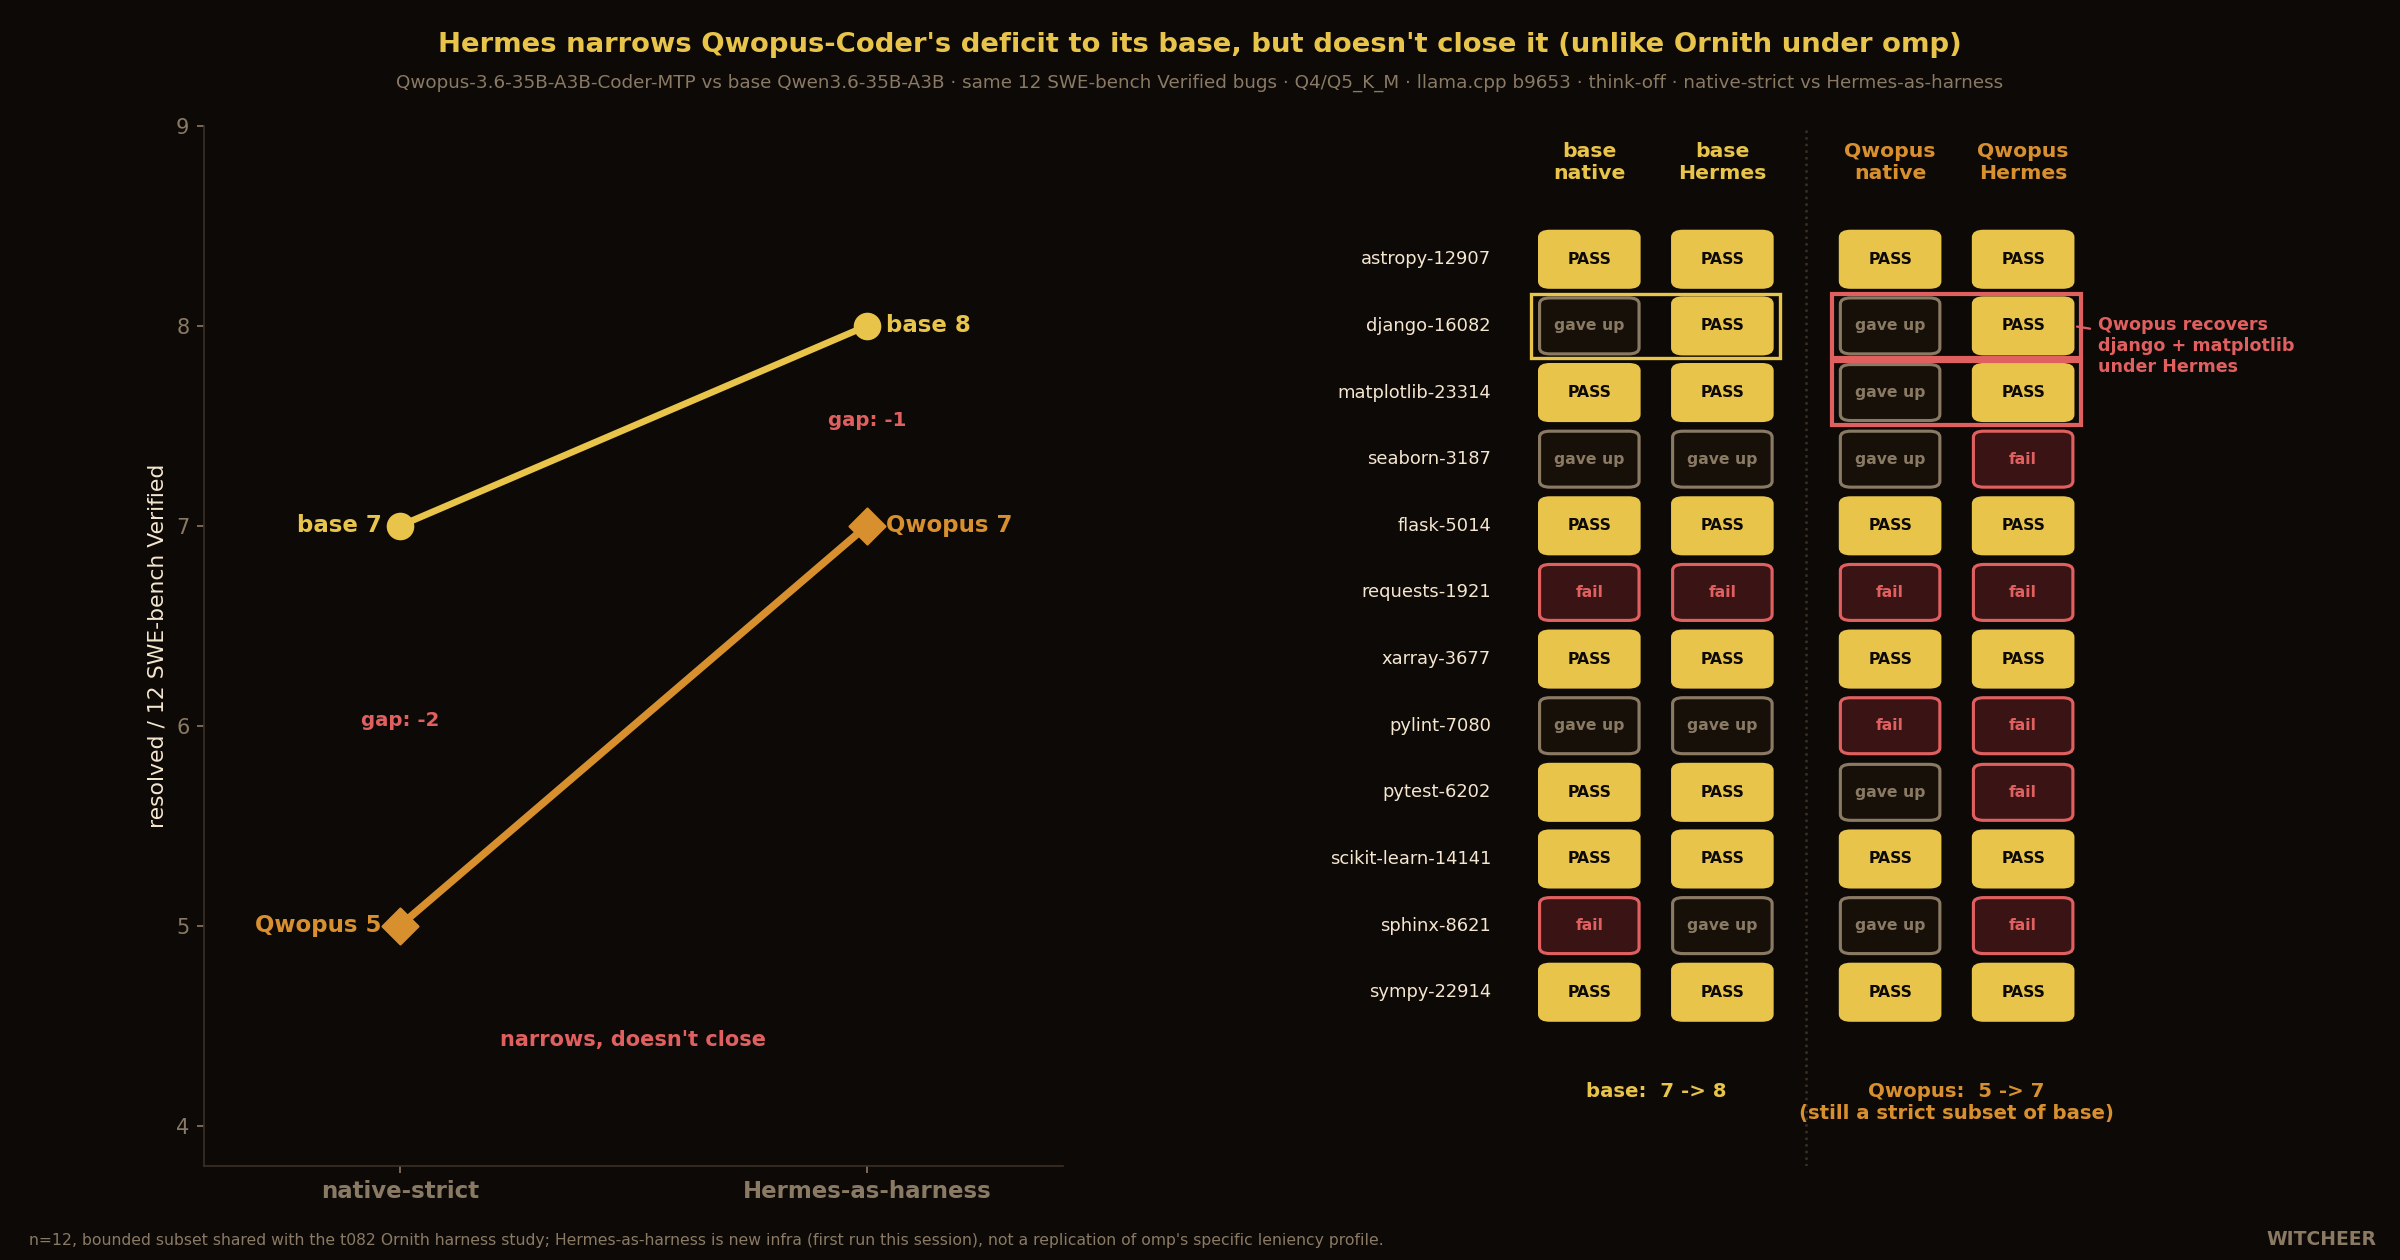
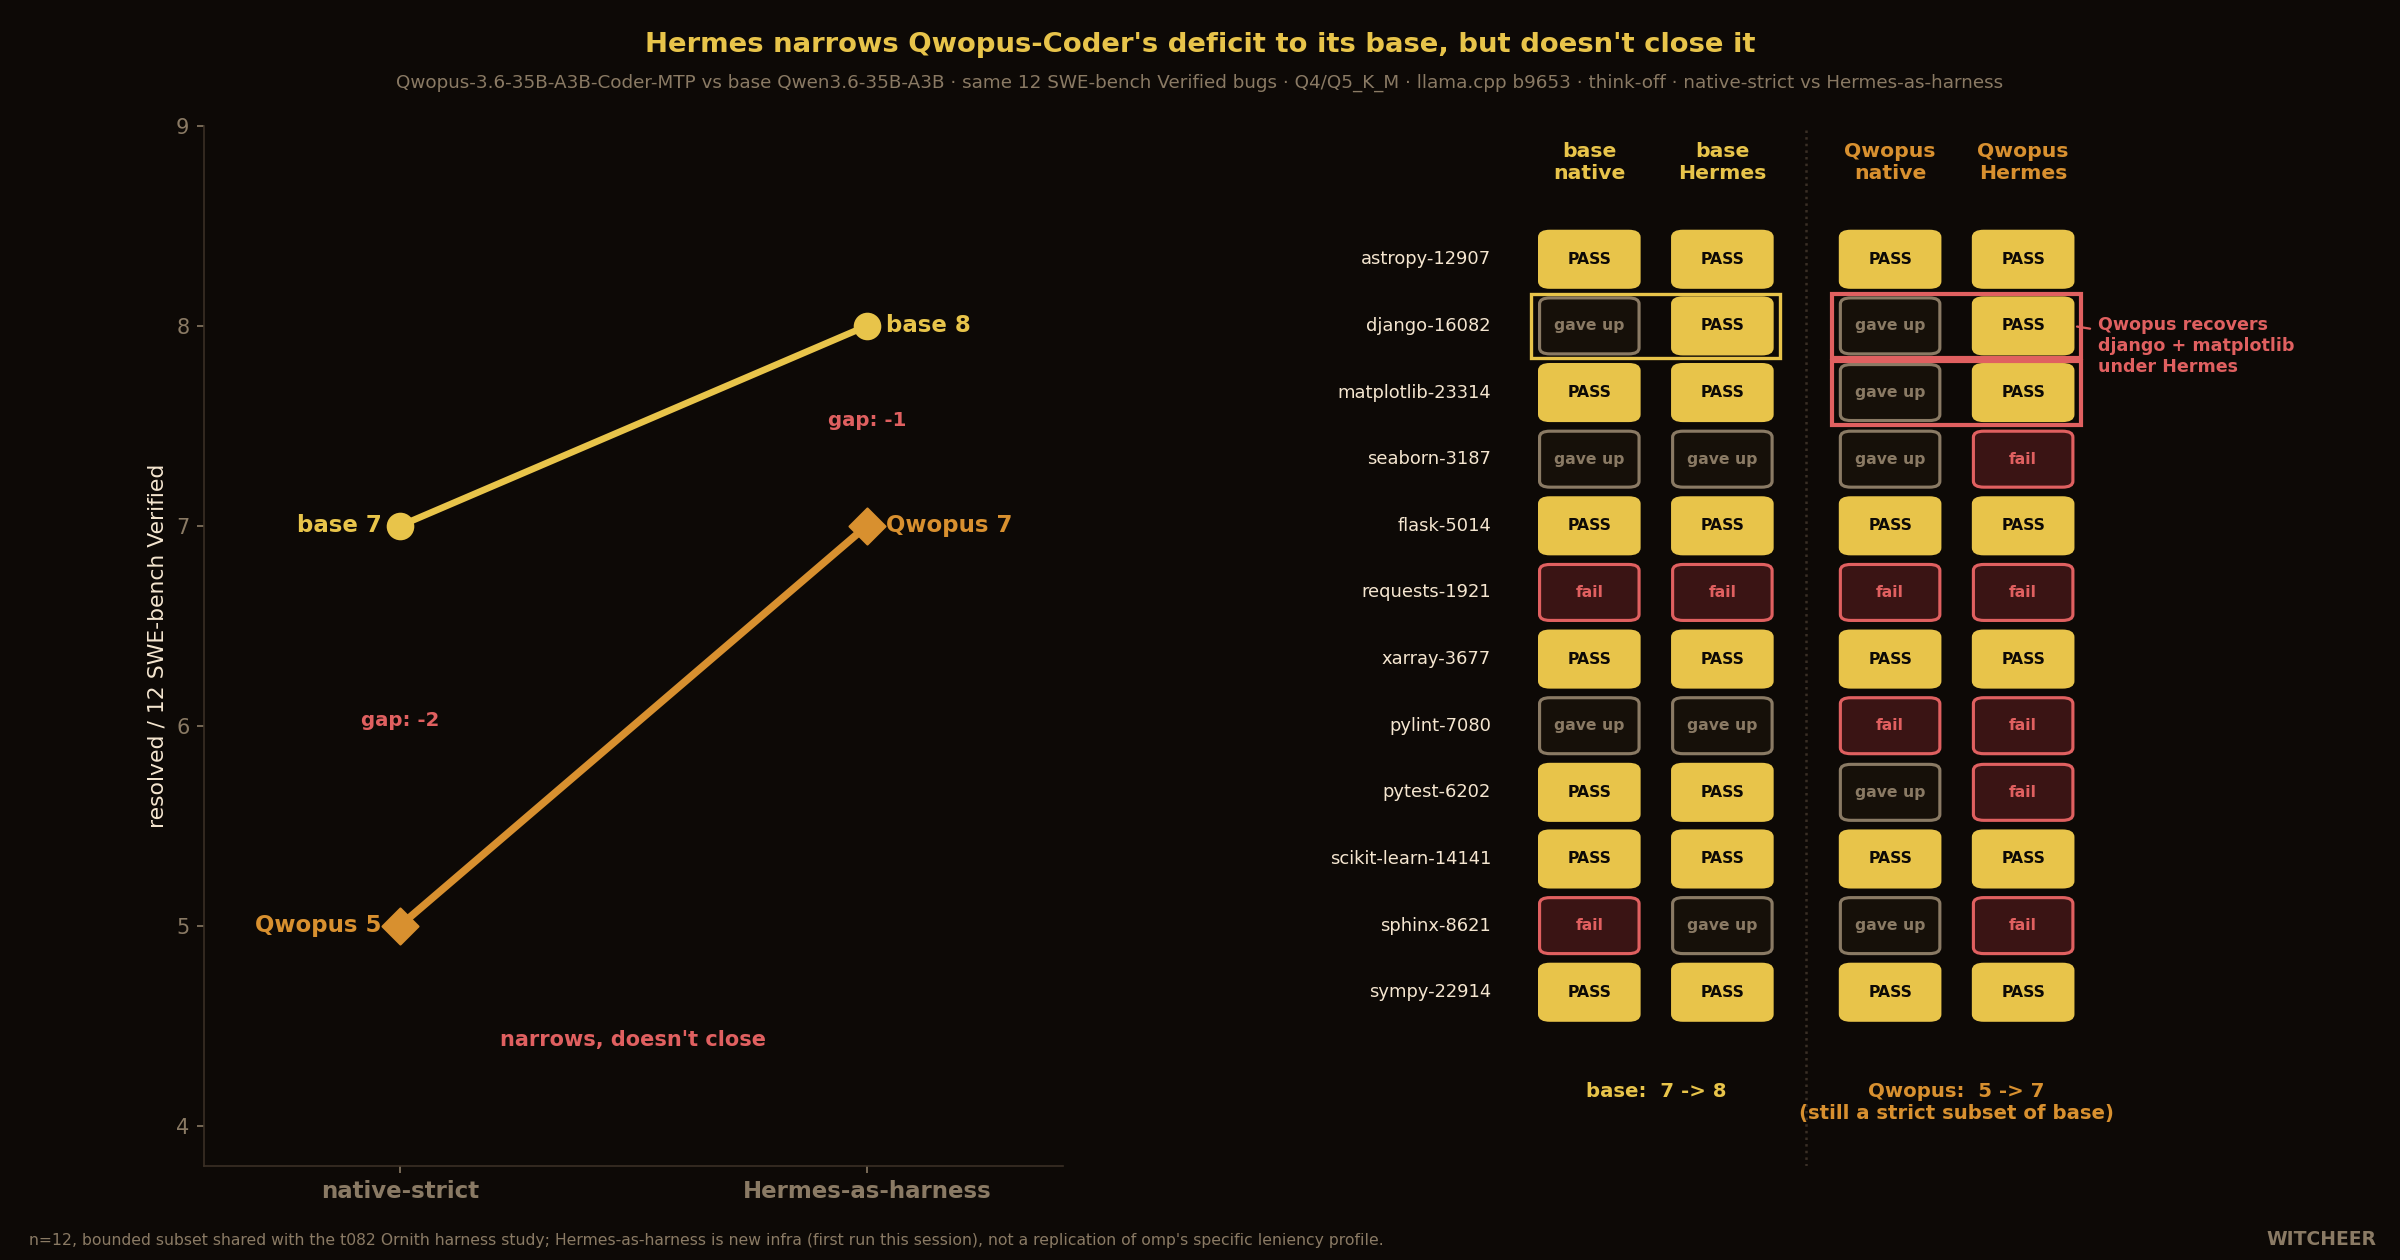
t083: drop redundant parenthetical from chart title
The "(unlike Ornith under omp)" aside duplicated context already in the
report body; the chart title reads cleaner without it.

Changed region(s): [[0.1875, 0.031, 0.8125, 0.0619]]

diff --git a/scripts/chart_qwopus_coder_35b.py b/scripts/chart_qwopus_coder_35b.py
@@ -23,7 +23,7 @@ grid = d["grid"]
 
 fig, (ax1, ax2) = plt.subplots(1, 2, figsize=(16.0, 8.4), facecolor=BG,
                                gridspec_kw={"width_ratios": [1.0, 1.32]})
-fig.suptitle("Hermes narrows Qwopus-Coder's deficit to its base, but doesn't close it (unlike Ornith under omp)",
+fig.suptitle("Hermes narrows Qwopus-Coder's deficit to its base, but doesn't close it",
              color=GOLD, fontsize=13.2, fontweight="bold", y=0.975)
 fig.text(0.5, 0.93, "Qwopus-3.6-35B-A3B-Coder-MTP vs base Qwen3.6-35B-A3B · same 12 SWE-bench Verified bugs · Q4/Q5_K_M · llama.cpp b9653 · think-off · native-strict vs Hermes-as-harness",
          color=MUTE, fontsize=8.8, ha="center")
